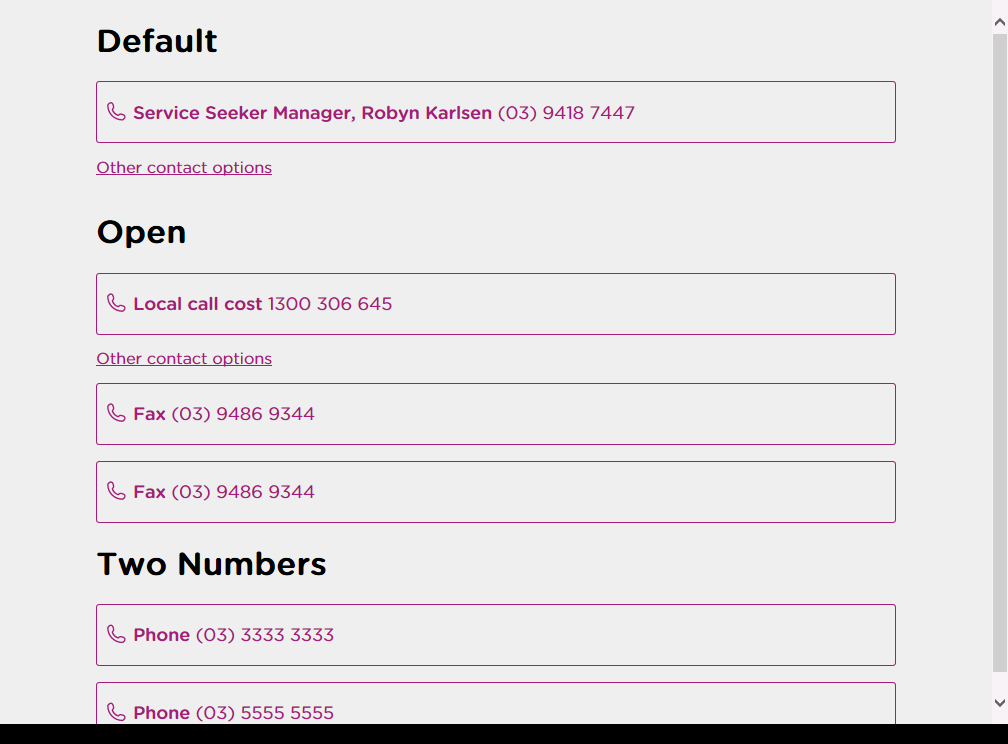
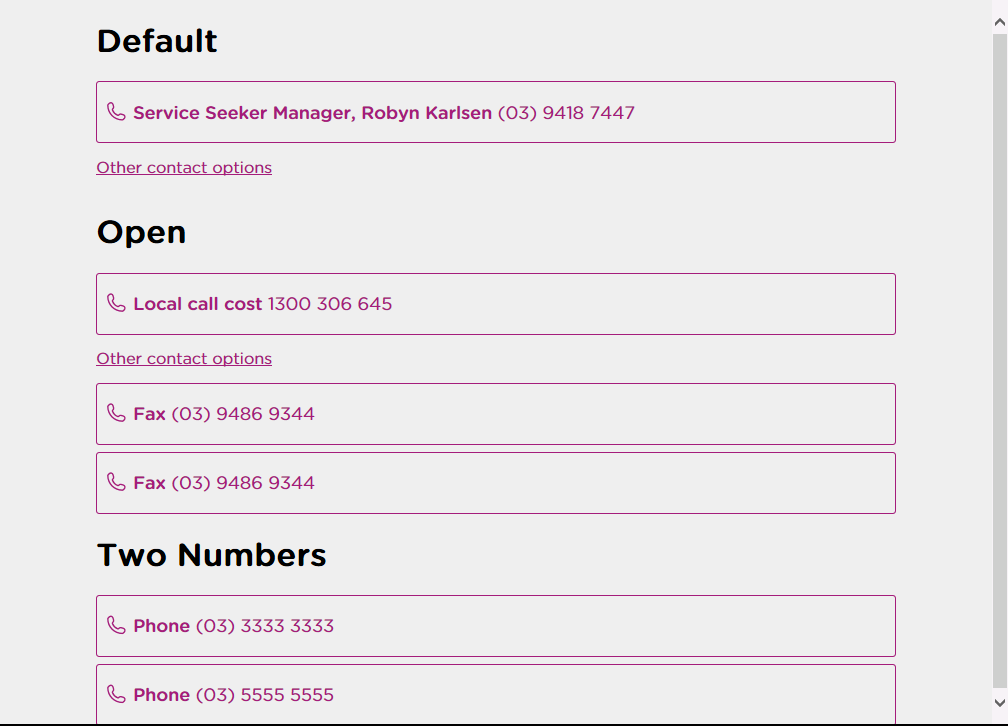
Multiple phone numbers have even spacing between them

diff --git a/src/components/ServicePane.scss b/src/components/ServicePane.scss
@@ -13,6 +13,7 @@ $padding: 15px;
     main {
         margin: 0;
         padding: $padding;
+        padding-bottom: 7px;
 
         background-color: $brand-bg-light;
     }

diff --git a/src/components/Phone.scss b/src/components/Phone.scss
@@ -1,5 +1,5 @@
 .Phone + .Phone {
-    padding-top: 1em;
+    padding-top: 7px;
 }
 
 .Phone {
